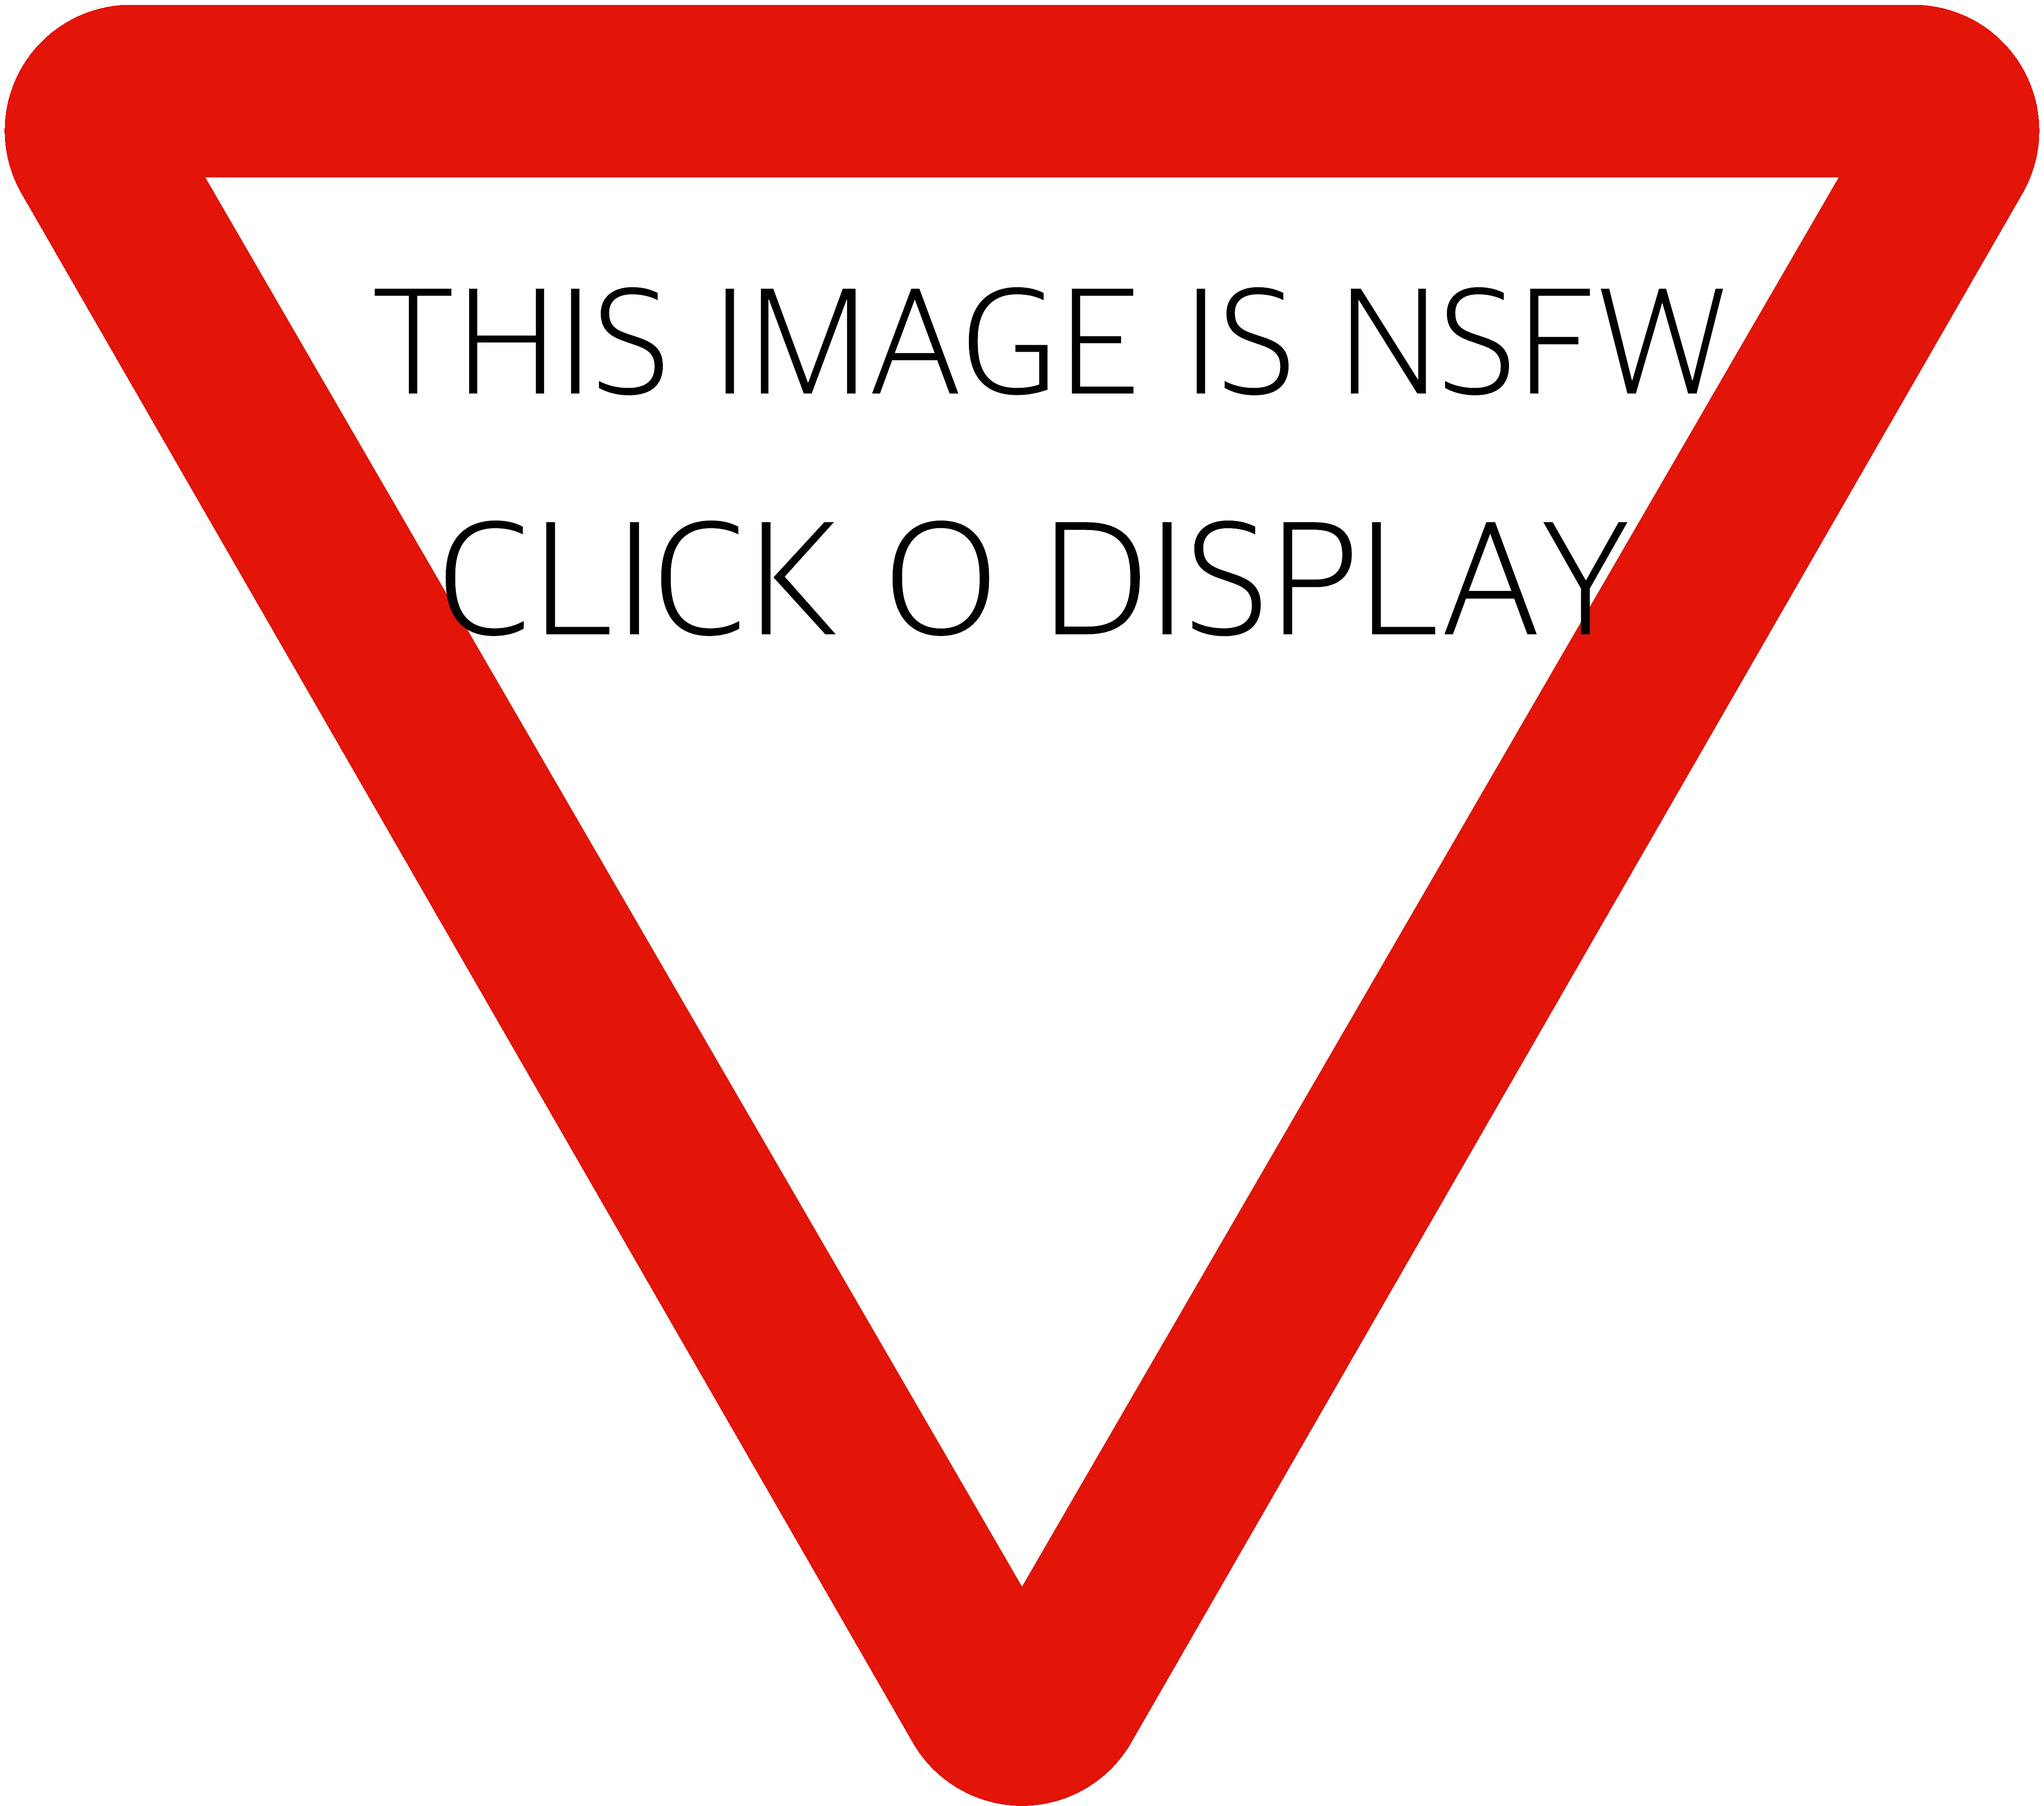
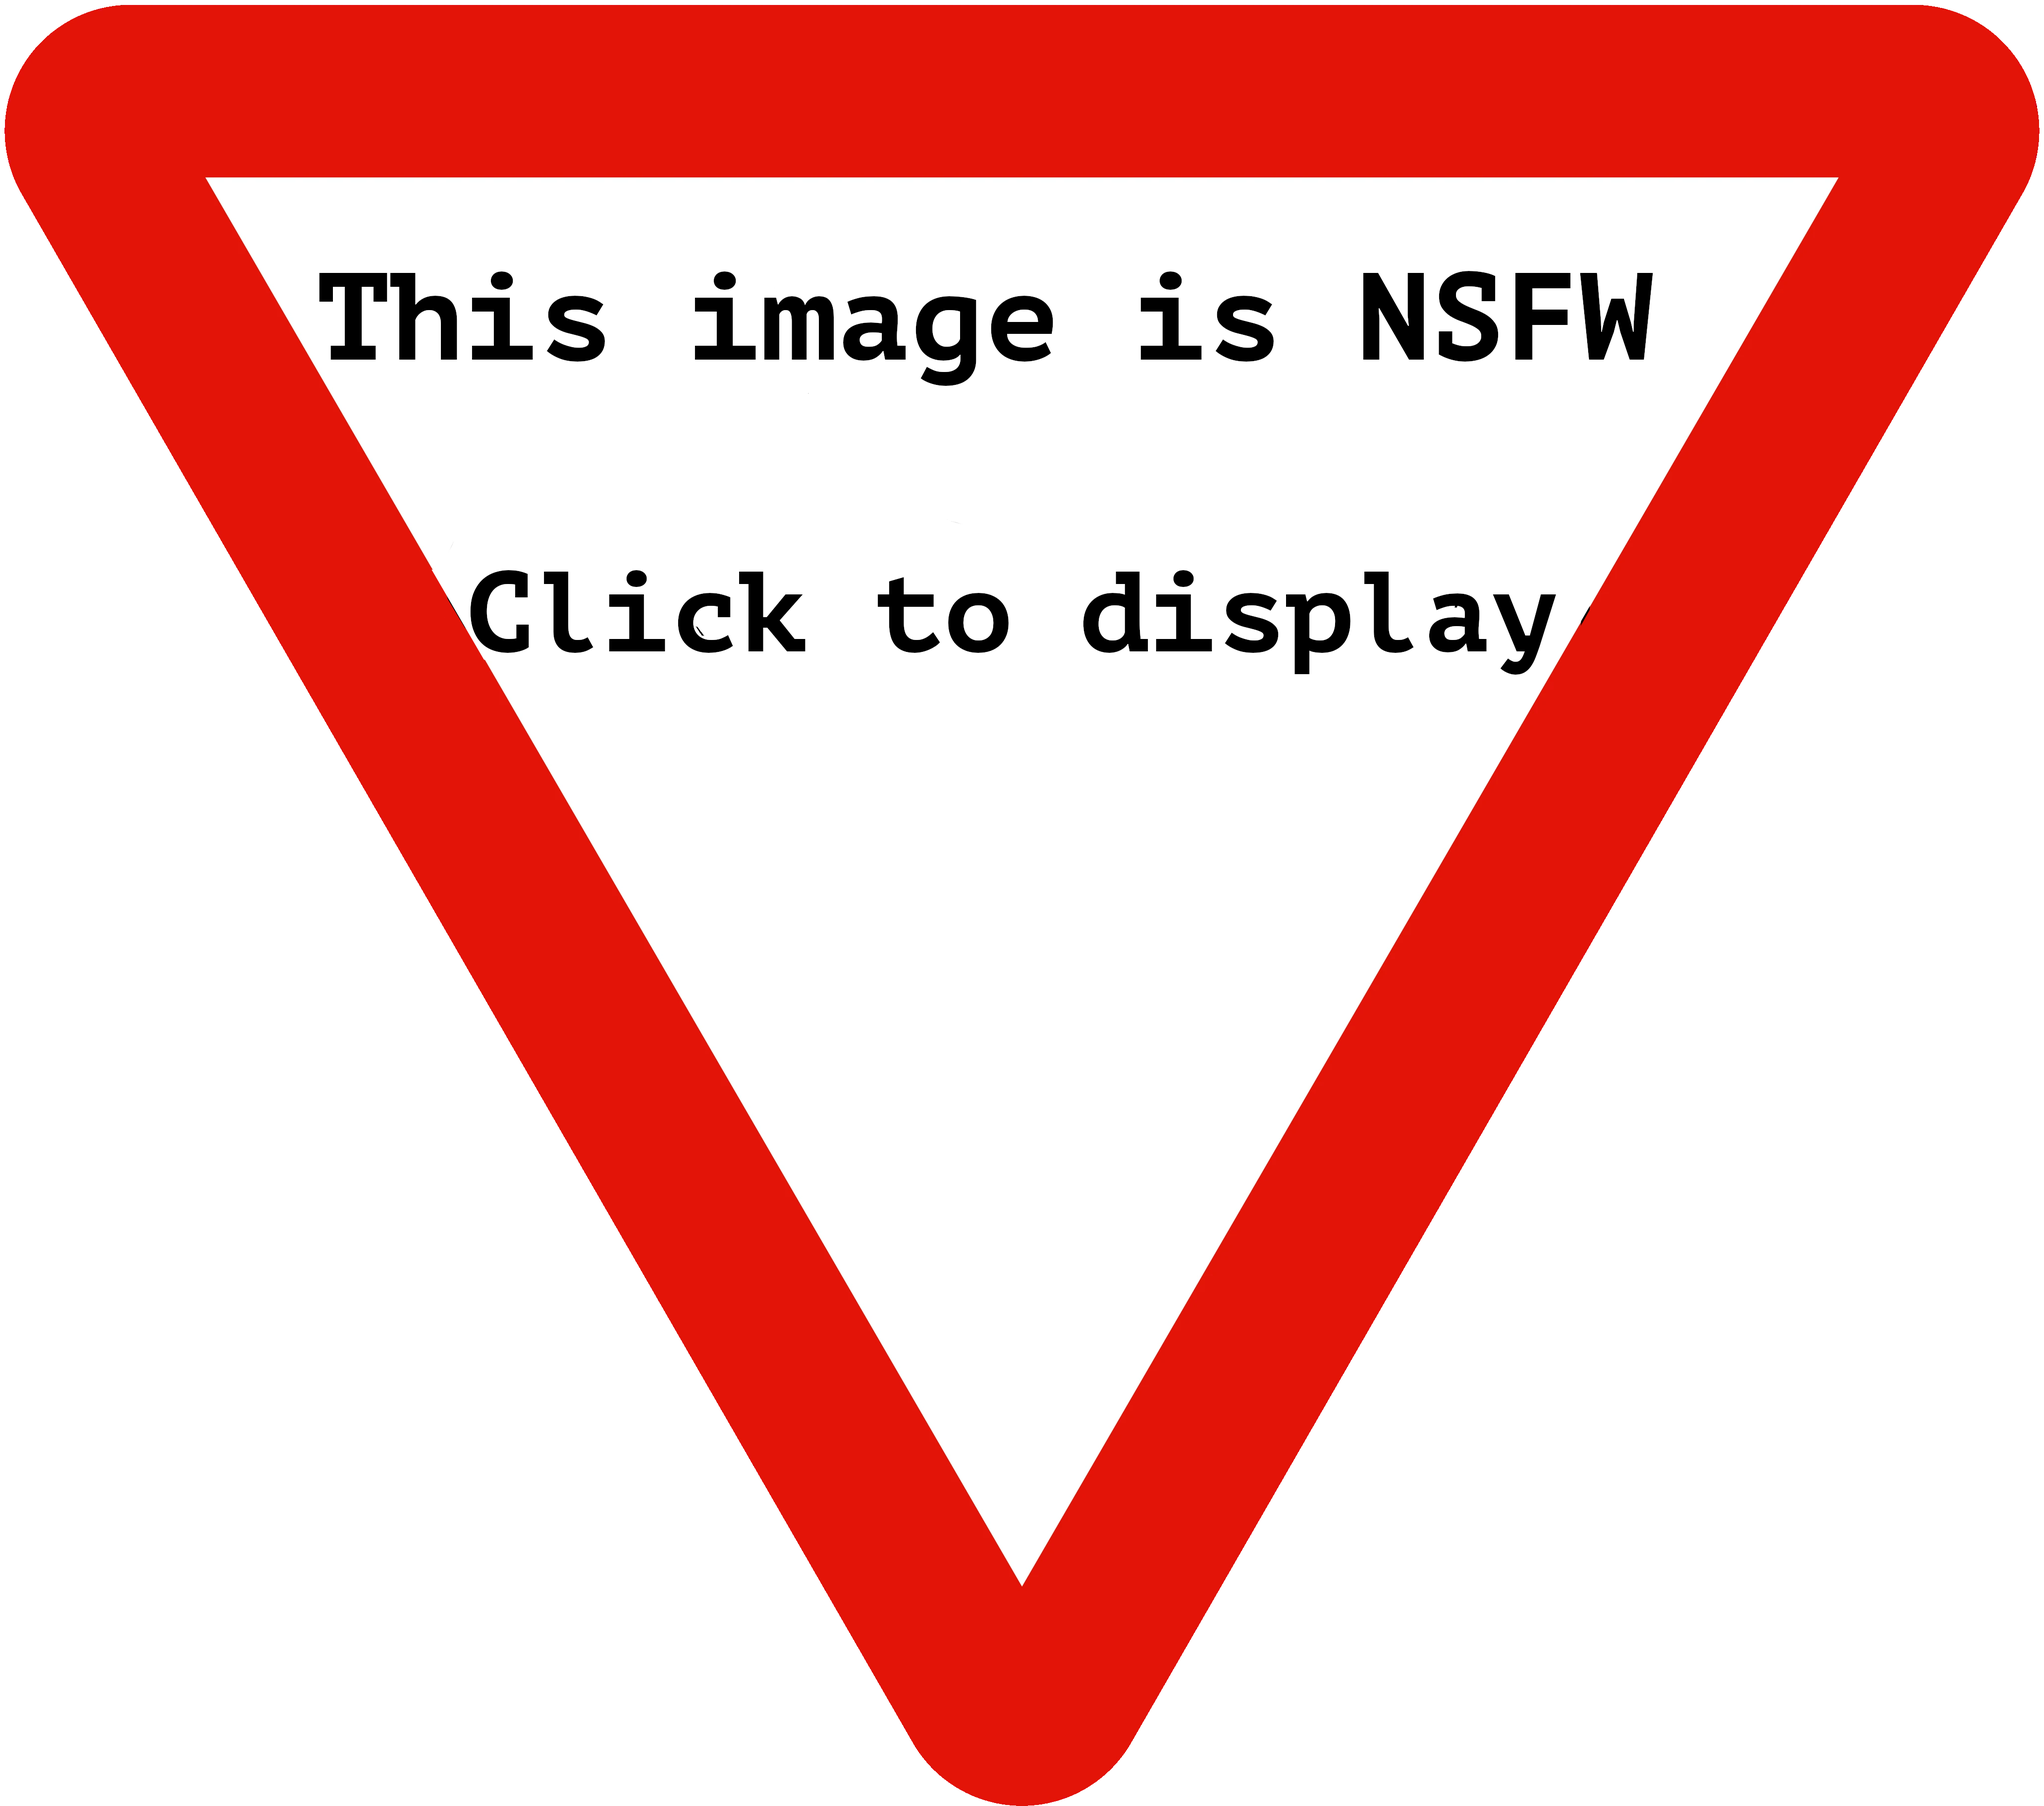
support for adult content. Fixed click o display

Changed region(s): [[0.1551, 0.124, 0.8376, 0.217], [0.4343, 0.2789, 0.8066, 0.3719], [0.2172, 0.2789, 0.4033, 0.3719]]

diff --git a/src/app/sharedWafrn/wafrn-media/wafrn-media.component.ts b/src/app/sharedWafrn/wafrn-media/wafrn-media.component.ts
@@ -1,4 +1,5 @@
 import { Component, Input, OnInit, ViewChild } from '@angular/core';
+import { MessageService } from 'primeng/api';
 import { WafrnMedia } from 'src/app/interfaces/wafrn-media';
 import { MediaService } from 'src/app/services/media.service';
 import { environment } from 'src/environments/environment';
@@ -13,6 +14,7 @@ export class WafrnMediaComponent implements OnInit {
 
   @Input() id!: string;
   nsfw = true;
+  adultContent = true;
   data!: WafrnMedia;
   displayUrl: string = '';
   disableNSFWFilter = true;
@@ -24,7 +26,8 @@ export class WafrnMediaComponent implements OnInit {
 
   
   constructor(
-    private mediaService: MediaService
+    private mediaService: MediaService,
+    private messagesService: MessageService,
   ) {
     this.disableNSFWFilter = mediaService.checkNSFWFilterDisabled();
    }
@@ -32,7 +35,8 @@ export class WafrnMediaComponent implements OnInit {
   ngOnInit(): void {
 
     this.data = this.mediaService.getMediaById(this.id);
-    this.nsfw = this.data.NSFW && ! this.disableNSFWFilter;
+    this.nsfw = this.data.adultContent ? true : this.data.NSFW && ! this.disableNSFWFilter;
+    this.adultContent = this.data.adultContent;
     this.displayUrl = this.nsfw ? '/assets/img/nsfw_image.webp' : this.data.url;
     this.video = !this.nsfw && this.checkIfVideo();
     this.ready = true;
@@ -40,10 +44,19 @@ export class WafrnMediaComponent implements OnInit {
   }
 
   showPicture(){
-    this.nsfw = false;
-    this.displayUrl = this.data.url;
-    this.viewLongImage = true;
-    this.video = this.checkIfVideo();
+    if(!(this.adultContent && !this.mediaService.checkAge())) {
+      this.nsfw = false;
+      this.adultContent = false;
+      this.displayUrl = this.data.url;
+      this.viewLongImage = true;
+      this.video = this.checkIfVideo();
+    } else {
+      this.messagesService.add({
+        severity: 'warn',
+        detail: 'This image has been flagged as adult content and you are a minor, or you are not logged in'
+      })
+    }
+    
 
   }
 

diff --git a/src/app/services/media.service.ts b/src/app/services/media.service.ts
@@ -45,10 +45,13 @@ export class MediaService {
     return this.disableNSFWFilter
   }
   checkAge(): boolean {
-    let tokenData = this.jwt.getTokenData();
-    let birthDate = new Date(tokenData.birthDate);
-    let minimumBirthDate = new Date();
+    const tokenData = this.jwt.getTokenData();
+    const birthDate = new Date(tokenData.birthDate);
+    const minimumBirthDate = new Date();
     minimumBirthDate.setFullYear(minimumBirthDate.getFullYear() - 18);
+    if( !birthDate ) {
+      return false;
+    }
     return minimumBirthDate > birthDate;
 
   }
@@ -78,7 +81,8 @@ export class MediaService {
         id: id,
         url: '/assets/img/404.png',
         description: 'The media that you are looking for could not be found. The identifier is wrong. The image is the default 404 that wafrn uses. A stock image for 404. The developer has not thought too much into it, and actually has spend more time writing this message than actually searching for a good 404 image',
-        NSFW: false
+        NSFW: false,
+        adultContent: false
       }
     }
 

diff --git a/src/app/interfaces/wafrn-media.ts b/src/app/interfaces/wafrn-media.ts
@@ -1,5 +1,6 @@
 export interface WafrnMedia {
     id: string,
+    adultContent: boolean,
     NSFW: boolean,
     description: string,
     url: string
